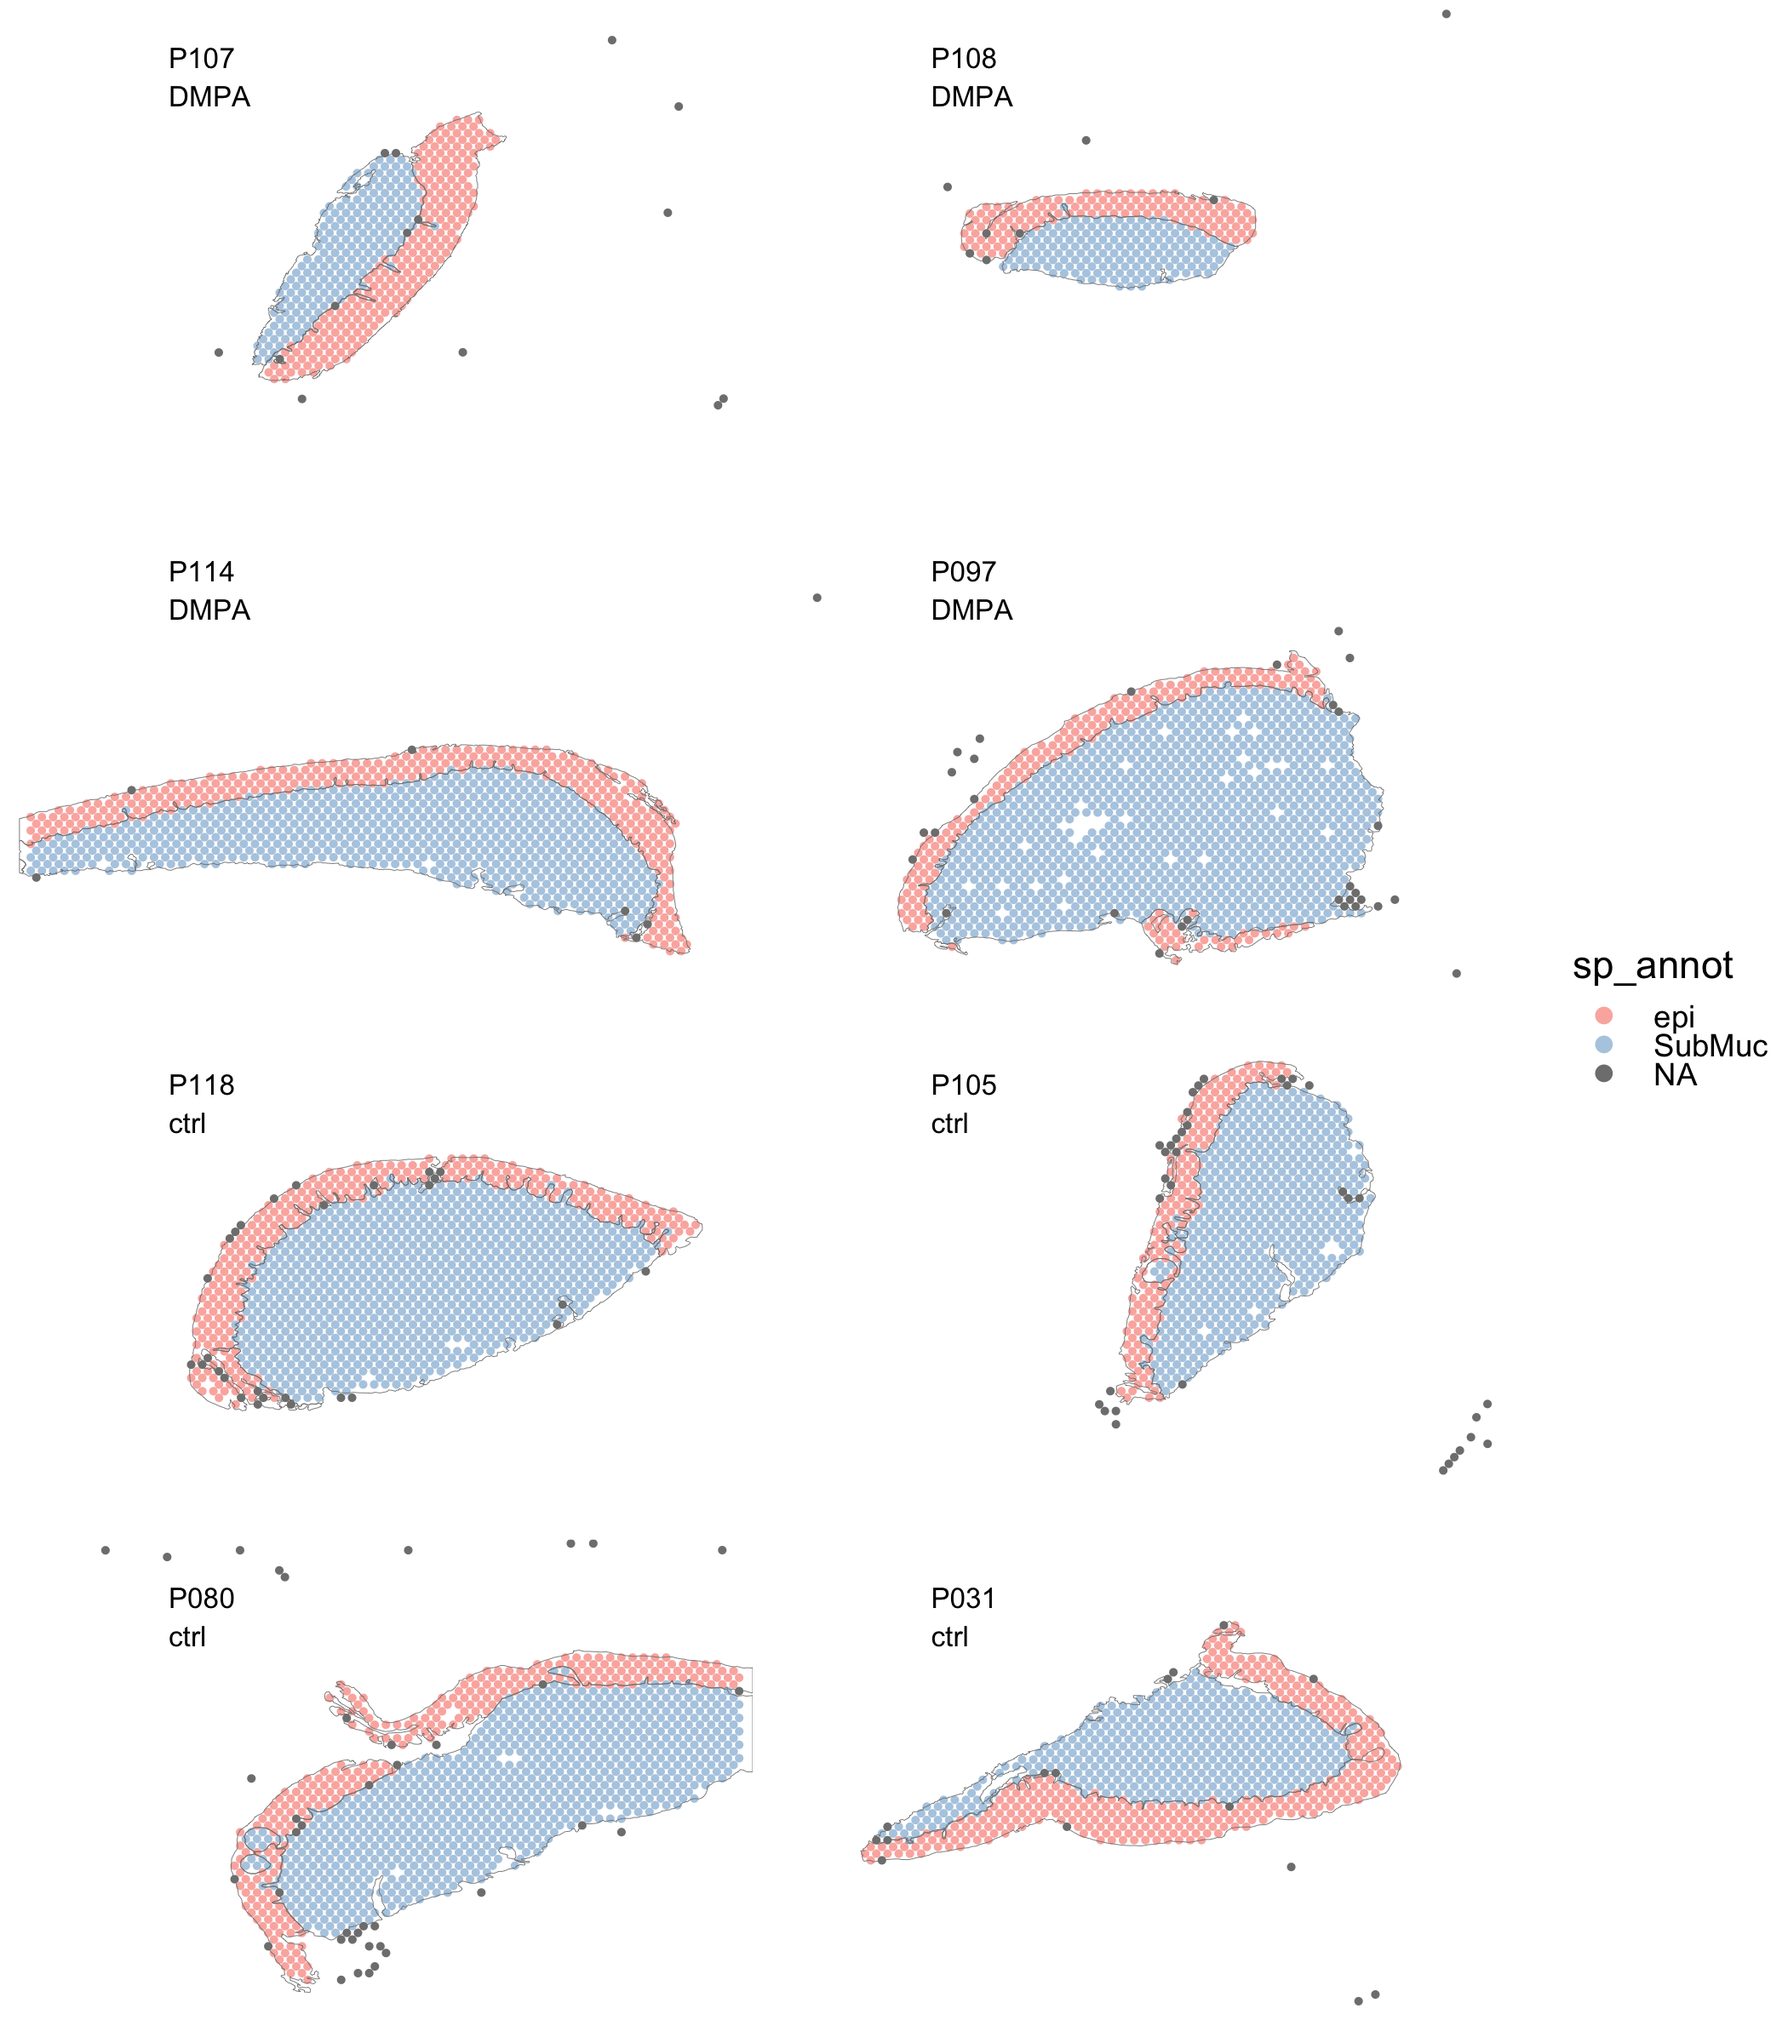
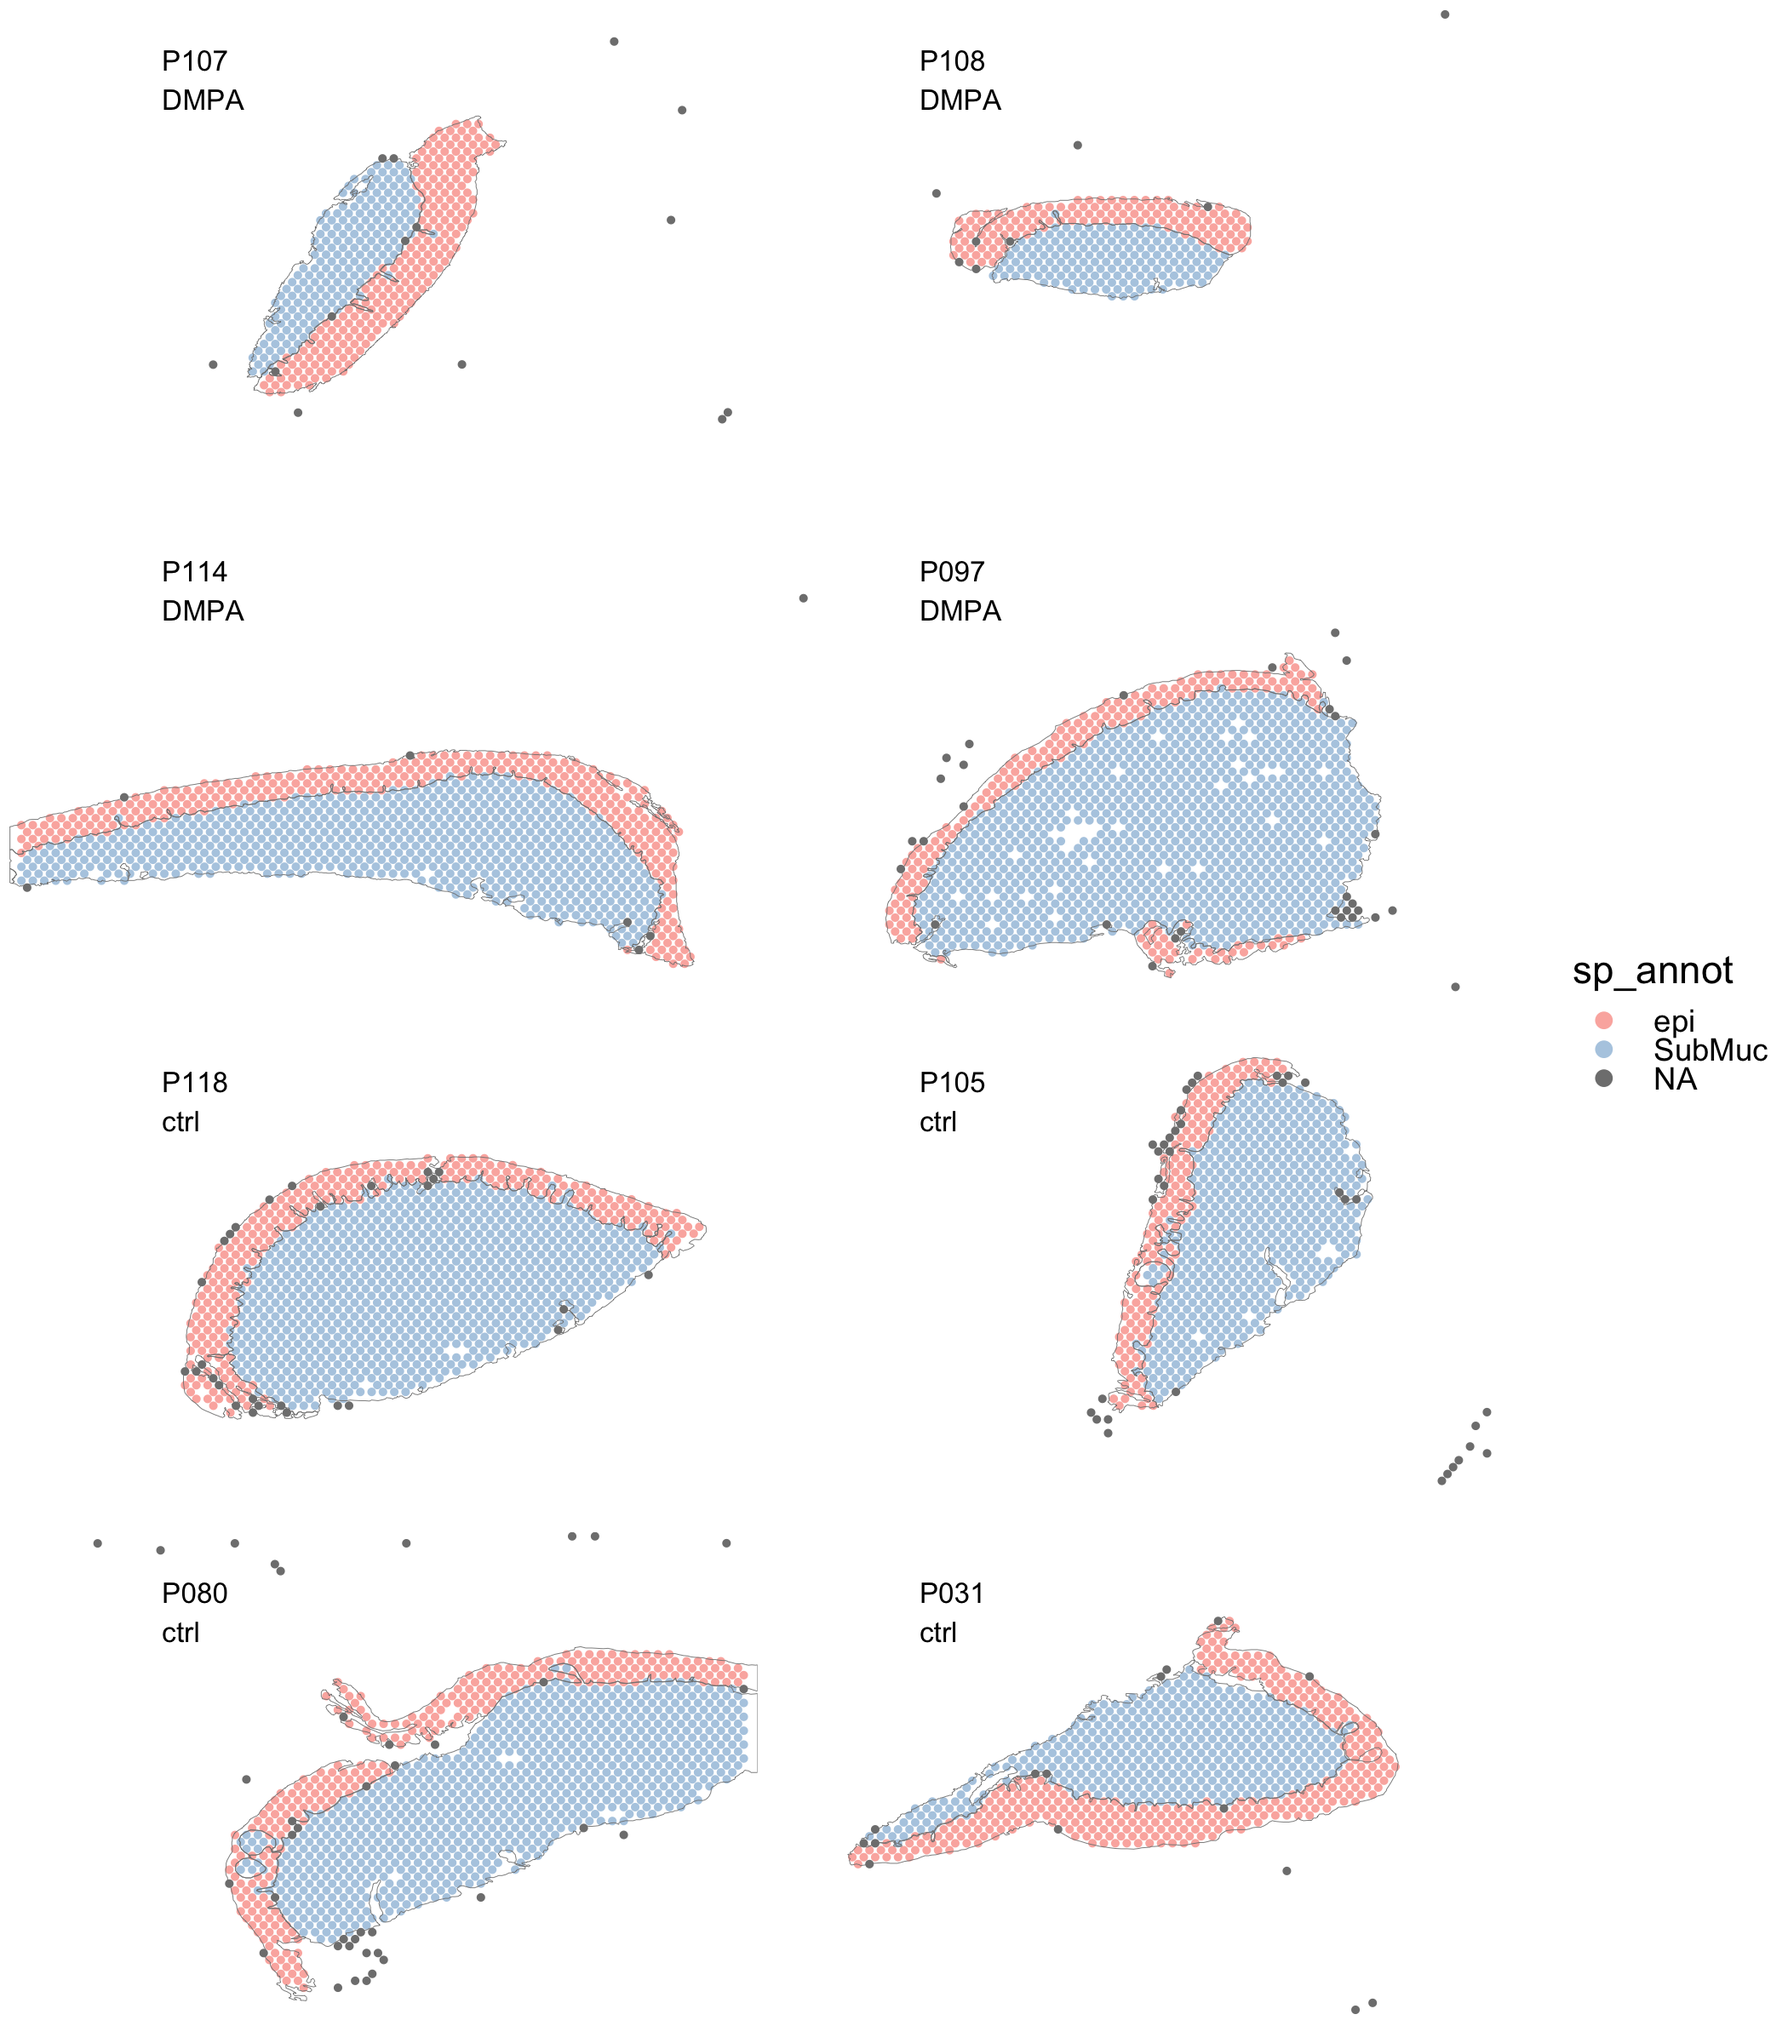
add img coord before annot

diff --git a/src/md_files/00_load_st_data.md b/src/md_files/00_load_st_data.md
@@ -1,6 +1,6 @@
 Load Spatial data
 ================
-3/21/23
+Invalid Date
 
 ### Load libraries
 
@@ -111,6 +111,18 @@ a2 <- map(sample_id, ~xml2::as_list( read_xml( paste0( input_dir,"/",.x,"/",.x,"
 dd <- map(a2, ~as.numeric( strsplit( attributes(.x$svg)$viewBox , " ")[[1]] ))
 dd2 <- map(sample_id, ~dim(DATA@images[[.x]]@image))
 
+# sample_id <- "P031"
+# a2 <- a2[["P031"]]
+# dd <- dd[["P031"]]
+# dd2 <- dd2[["P031"]]
+
+# add image coordinates to the seurat object
+get_img_coord <- function(DATA, sample_id){
+  img_coord <- DATA@images[[sample_id]]@coordinates
+  DATA@images[[sample_id]]@coordinates <<- img_coord 
+}
+
+# add manual spatial annotation
 get_sp_annot <- function(a2, dd, dd2, sample_id){
   scale.factor <- DATA@images[[sample_id]]@scale.factors$hires
   img_coord <- DATA@images[[sample_id]]@coordinates
@@ -165,7 +177,6 @@ get_sp_annot <- function(a2, dd, dd2, sample_id){
   
   return(list(coord=annot_coord, annot=sp_annot))
 }
-
 annot <- list(a2, dd, dd2, names(a2)) %>%
   pmap(., ~get_sp_annot(..1, ..2, ..3, ..4)) %>%
   set_names(., names(a2))
@@ -190,7 +201,7 @@ DATA
      8 P031_AAATGGCCCGTGCCCT P031              789          477 <NA>    
      9 P031_AAATTAACGGGTAGCT P031              639          465 SubMuc  
     10 P031_AAATTTGCGGGTGTGG P031             3570         1948 SubMuc  
-    # … with 6,690 more rows
+    # ℹ 6,690 more rows
 
 ### Add meta data
 
@@ -341,20 +352,37 @@ DATA
 
     # A Seurat-tibble abstraction: 6,612 × 7
     # [90mFeatures=36601 | Cells=6612 | Active assay=RNA | Assays=RNA[0m
-       .cell                 groups sp_annot orig.ident nCount_RNA nFeatur…¹ sp_an…²
-       <chr>                 <chr>  <chr>    <chr>           <dbl>     <int> <chr>  
-     1 P031_AAACGAGACGGTTGAT ctrl   SubMuc   P031              463       356 SubMuc 
-     2 P031_AAACTGCTGGCTCCAA ctrl   SubMuc   P031             4081      2232 SubMuc 
-     3 P031_AAAGTAGCATTGCTCA ctrl   epi      P031             7595      2588 epi    
-     4 P031_AAAGTGTGATTTATCT ctrl   epi      P031            11394      3873 epi    
-     5 P031_AAAGTTGACTCCCGTA ctrl   epi      P031             4617      2270 epi    
-     6 P031_AAATACCTATAAGCAT ctrl   epi      P031             5538      2507 epi    
-     7 P031_AAATCGTGTACCACAA ctrl   SubMuc   P031             1765      1084 SubMuc 
-     8 P031_AAATGGCCCGTGCCCT ctrl   SubMuc   P031              789       477 <NA>   
-     9 P031_AAATTAACGGGTAGCT ctrl   SubMuc   P031              639       465 SubMuc 
-    10 P031_AAATTTGCGGGTGTGG ctrl   SubMuc   P031             3570      1948 SubMuc 
-    # … with 6,602 more rows, and abbreviated variable names ¹nFeature_RNA,
-    #   ²sp_annot2
+       .cell            groups sp_annot orig.ident nCount_RNA nFeature_RNA sp_annot2
+       <chr>            <chr>  <chr>    <chr>           <dbl>        <int> <chr>    
+     1 P031_AAACGAGACG… ctrl   SubMuc   P031              463          356 SubMuc   
+     2 P031_AAACTGCTGG… ctrl   SubMuc   P031             4081         2232 SubMuc   
+     3 P031_AAAGTAGCAT… ctrl   epi      P031             7595         2588 epi      
+     4 P031_AAAGTGTGAT… ctrl   epi      P031            11394         3873 epi      
+     5 P031_AAAGTTGACT… ctrl   epi      P031             4617         2270 epi      
+     6 P031_AAATACCTAT… ctrl   epi      P031             5538         2507 epi      
+     7 P031_AAATCGTGTA… ctrl   SubMuc   P031             1765         1084 SubMuc   
+     8 P031_AAATGGCCCG… ctrl   SubMuc   P031              789          477 <NA>     
+     9 P031_AAATTAACGG… ctrl   SubMuc   P031              639          465 SubMuc   
+    10 P031_AAATTTGCGG… ctrl   SubMuc   P031             3570         1948 SubMuc   
+    # ℹ 6,602 more rows
+
+``` r
+# dev.new(width=5, height=2, noRStudioGD = TRUE)
+DATA %>%
+  #filter(orig.ident == "P118" | orig.ident == "P097") %>%
+  plot_st_meta.fun(.,  
+          assay="RNA",
+          feat = "sp_annot",
+          zoom = "zoom",
+          ncol = 2,
+          annot_line = .1,
+          annot_col = "black",
+          img_alpha = 0,
+          point_size = 0.8
+        )
+```
+
+<img src="../Figures/00/final-sp_annot.png" data-fig-align="center" />
 
 ## Save seurat object
 
@@ -388,50 +416,50 @@ sessionInfo()
     other attached packages:
      [1] xml2_1.3.3         niceRplots_0.1.0   hdf5r_1.3.8        Seurat_4.3.0      
      [5] tidyseurat_0.5.3   SeuratObject_4.1.3 sp_1.5-1           ttservice_0.2.2   
-     [9] forcats_0.5.2      stringr_1.5.0      dplyr_1.0.10       purrr_1.0.1       
-    [13] readr_2.1.3        tidyr_1.2.1        tibble_3.1.8       ggplot2_3.4.0     
+     [9] forcats_1.0.0      stringr_1.5.0      dplyr_1.1.2        purrr_1.0.1       
+    [13] readr_2.1.3        tidyr_1.3.0        tibble_3.2.1       ggplot2_3.4.3     
     [17] tidyverse_1.3.2   
 
     loaded via a namespace (and not attached):
       [1] readxl_1.4.1           backports_1.4.1        plyr_1.8.8            
-      [4] igraph_1.3.5           lazyeval_0.2.2         splines_4.1.2         
+      [4] igraph_1.4.1           lazyeval_0.2.2         splines_4.1.2         
       [7] listenv_0.9.0          scattermore_0.8        digest_0.6.31         
-     [10] htmltools_0.5.4        fansi_1.0.3            magrittr_2.0.3        
+     [10] htmltools_0.5.5        fansi_1.0.4            magrittr_2.0.3        
      [13] tensor_1.5             googlesheets4_1.0.1    cluster_2.1.4         
      [16] ROCR_1.0-11            tzdb_0.3.0             globals_0.16.2        
      [19] modelr_0.1.10          matrixStats_0.63.0     vroom_1.6.0           
-     [22] timechange_0.2.0       spatstat.sparse_3.0-0  colorspace_2.0-3      
-     [25] rvest_1.0.3            ggrepel_0.9.2          haven_2.5.1           
-     [28] xfun_0.36              crayon_1.5.2           jsonlite_1.8.4        
-     [31] progressr_0.13.0       spatstat.data_3.0-0    survival_3.5-0        
+     [22] timechange_0.2.0       spatstat.sparse_3.0-0  colorspace_2.1-0      
+     [25] rvest_1.0.3            ggrepel_0.9.3          haven_2.5.1           
+     [28] xfun_0.38              crayon_1.5.2           jsonlite_1.8.5        
+     [31] progressr_0.13.0       spatstat.data_3.0-0    survival_3.5-5        
      [34] zoo_1.8-11             glue_1.6.2             polyclip_1.10-4       
-     [37] gtable_0.3.1           gargle_1.2.1           leiden_0.4.3          
+     [37] gtable_0.3.4           gargle_1.2.1           leiden_0.4.3          
      [40] future.apply_1.10.0    abind_1.4-5            scales_1.2.1          
      [43] DBI_1.1.3              spatstat.random_3.0-1  miniUI_0.1.1.1        
-     [46] Rcpp_1.0.9             viridisLite_0.4.1      xtable_1.8-4          
-     [49] reticulate_1.27        bit_4.0.5              htmlwidgets_1.6.1     
-     [52] httr_1.4.4             RColorBrewer_1.1-3     ellipsis_0.3.2        
+     [46] Rcpp_1.0.10            viridisLite_0.4.2      xtable_1.8-4          
+     [49] reticulate_1.28        bit_4.0.5              htmlwidgets_1.6.2     
+     [52] httr_1.4.5             RColorBrewer_1.1-3     ellipsis_0.3.2        
      [55] ica_1.0-3              farver_2.1.1           pkgconfig_2.0.3       
      [58] uwot_0.1.14            dbplyr_2.2.1           deldir_1.0-6          
-     [61] utf8_1.2.2             labeling_0.4.2         tidyselect_1.2.0      
-     [64] rlang_1.0.6            reshape2_1.4.4         later_1.3.0           
+     [61] utf8_1.2.3             labeling_0.4.3         tidyselect_1.2.0      
+     [64] rlang_1.1.1            reshape2_1.4.4         later_1.3.0           
      [67] munsell_0.5.0          cellranger_1.1.0       tools_4.1.2           
-     [70] cli_3.6.0              generics_0.1.3         broom_1.0.2           
-     [73] ggridges_0.5.4         evaluate_0.19          fastmap_1.1.0         
-     [76] yaml_2.3.6             goftest_1.2-3          knitr_1.41            
-     [79] bit64_4.0.5            fs_1.5.2               fitdistrplus_1.1-8    
-     [82] RANN_2.6.1             pbapply_1.6-0          future_1.30.0         
-     [85] nlme_3.1-161           mime_0.12              compiler_4.1.2        
+     [70] cli_3.6.1              generics_0.1.3         broom_1.0.4           
+     [73] ggridges_0.5.4         evaluate_0.21          fastmap_1.1.1         
+     [76] yaml_2.3.7             goftest_1.2-3          knitr_1.42            
+     [79] bit64_4.0.5            fs_1.6.2               fitdistrplus_1.1-8    
+     [82] RANN_2.6.1             pbapply_1.7-0          future_1.32.0         
+     [85] nlme_3.1-163           mime_0.12              compiler_4.1.2        
      [88] rstudioapi_0.14        plotly_4.10.1          png_0.1-8             
      [91] spatstat.utils_3.0-1   reprex_2.0.2           stringi_1.7.12        
-     [94] lattice_0.20-45        Matrix_1.5-3           vctrs_0.5.1           
-     [97] pillar_1.8.1           lifecycle_1.0.3        spatstat.geom_3.0-3   
+     [94] lattice_0.21-8         Matrix_1.6-1           vctrs_0.6.3           
+     [97] pillar_1.9.0           lifecycle_1.0.3        spatstat.geom_3.0-3   
     [100] lmtest_0.9-40          RcppAnnoy_0.0.20       data.table_1.14.6     
-    [103] cowplot_1.1.1          irlba_2.3.5.1          httpuv_1.6.8          
+    [103] cowplot_1.1.1          irlba_2.3.5.1          httpuv_1.6.9          
     [106] patchwork_1.1.2        R6_2.5.1               promises_1.2.0.1      
-    [109] KernSmooth_2.23-20     gridExtra_2.3          parallelly_1.33.0     
-    [112] codetools_0.2-18       MASS_7.3-58.1          assertthat_0.2.1      
+    [109] KernSmooth_2.23-20     gridExtra_2.3          parallelly_1.36.0     
+    [112] codetools_0.2-19       MASS_7.3-60            assertthat_0.2.1      
     [115] withr_2.5.0            sctransform_0.3.5      parallel_4.1.2        
-    [118] hms_1.1.2              grid_4.1.2             rmarkdown_2.20        
+    [118] hms_1.1.2              grid_4.1.2             rmarkdown_2.21        
     [121] googledrive_2.0.0      Rtsne_0.16             spatstat.explore_3.0-5
     [124] shiny_1.7.4            lubridate_1.9.0       
